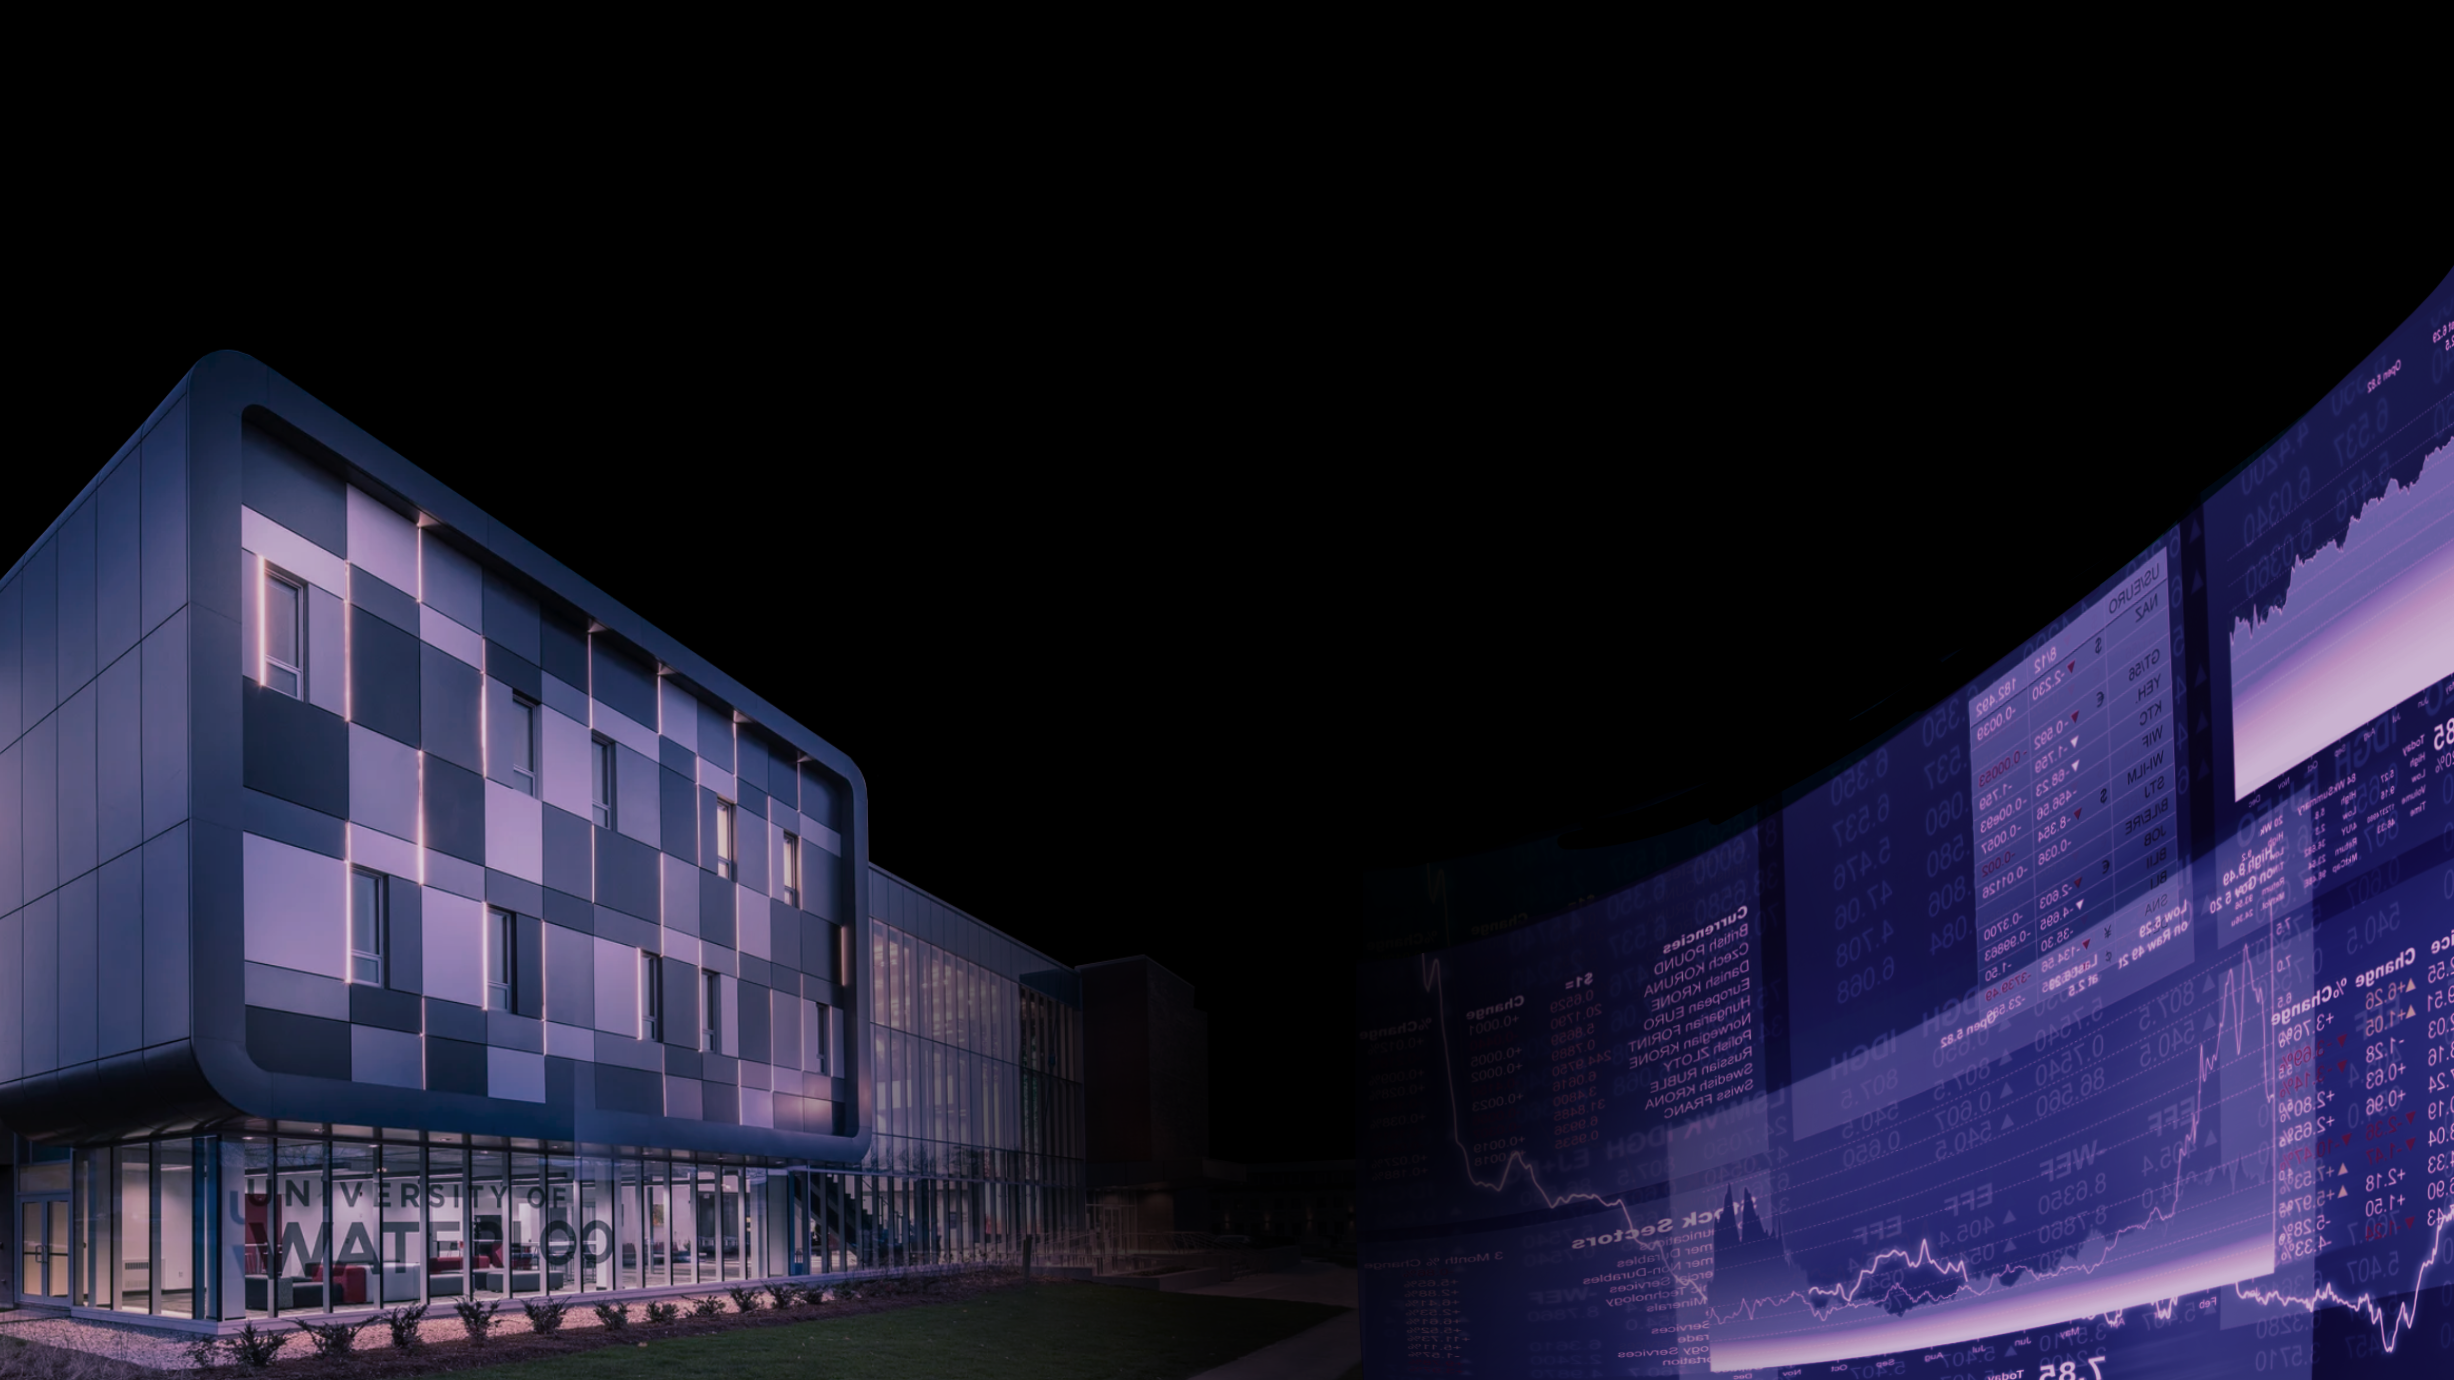
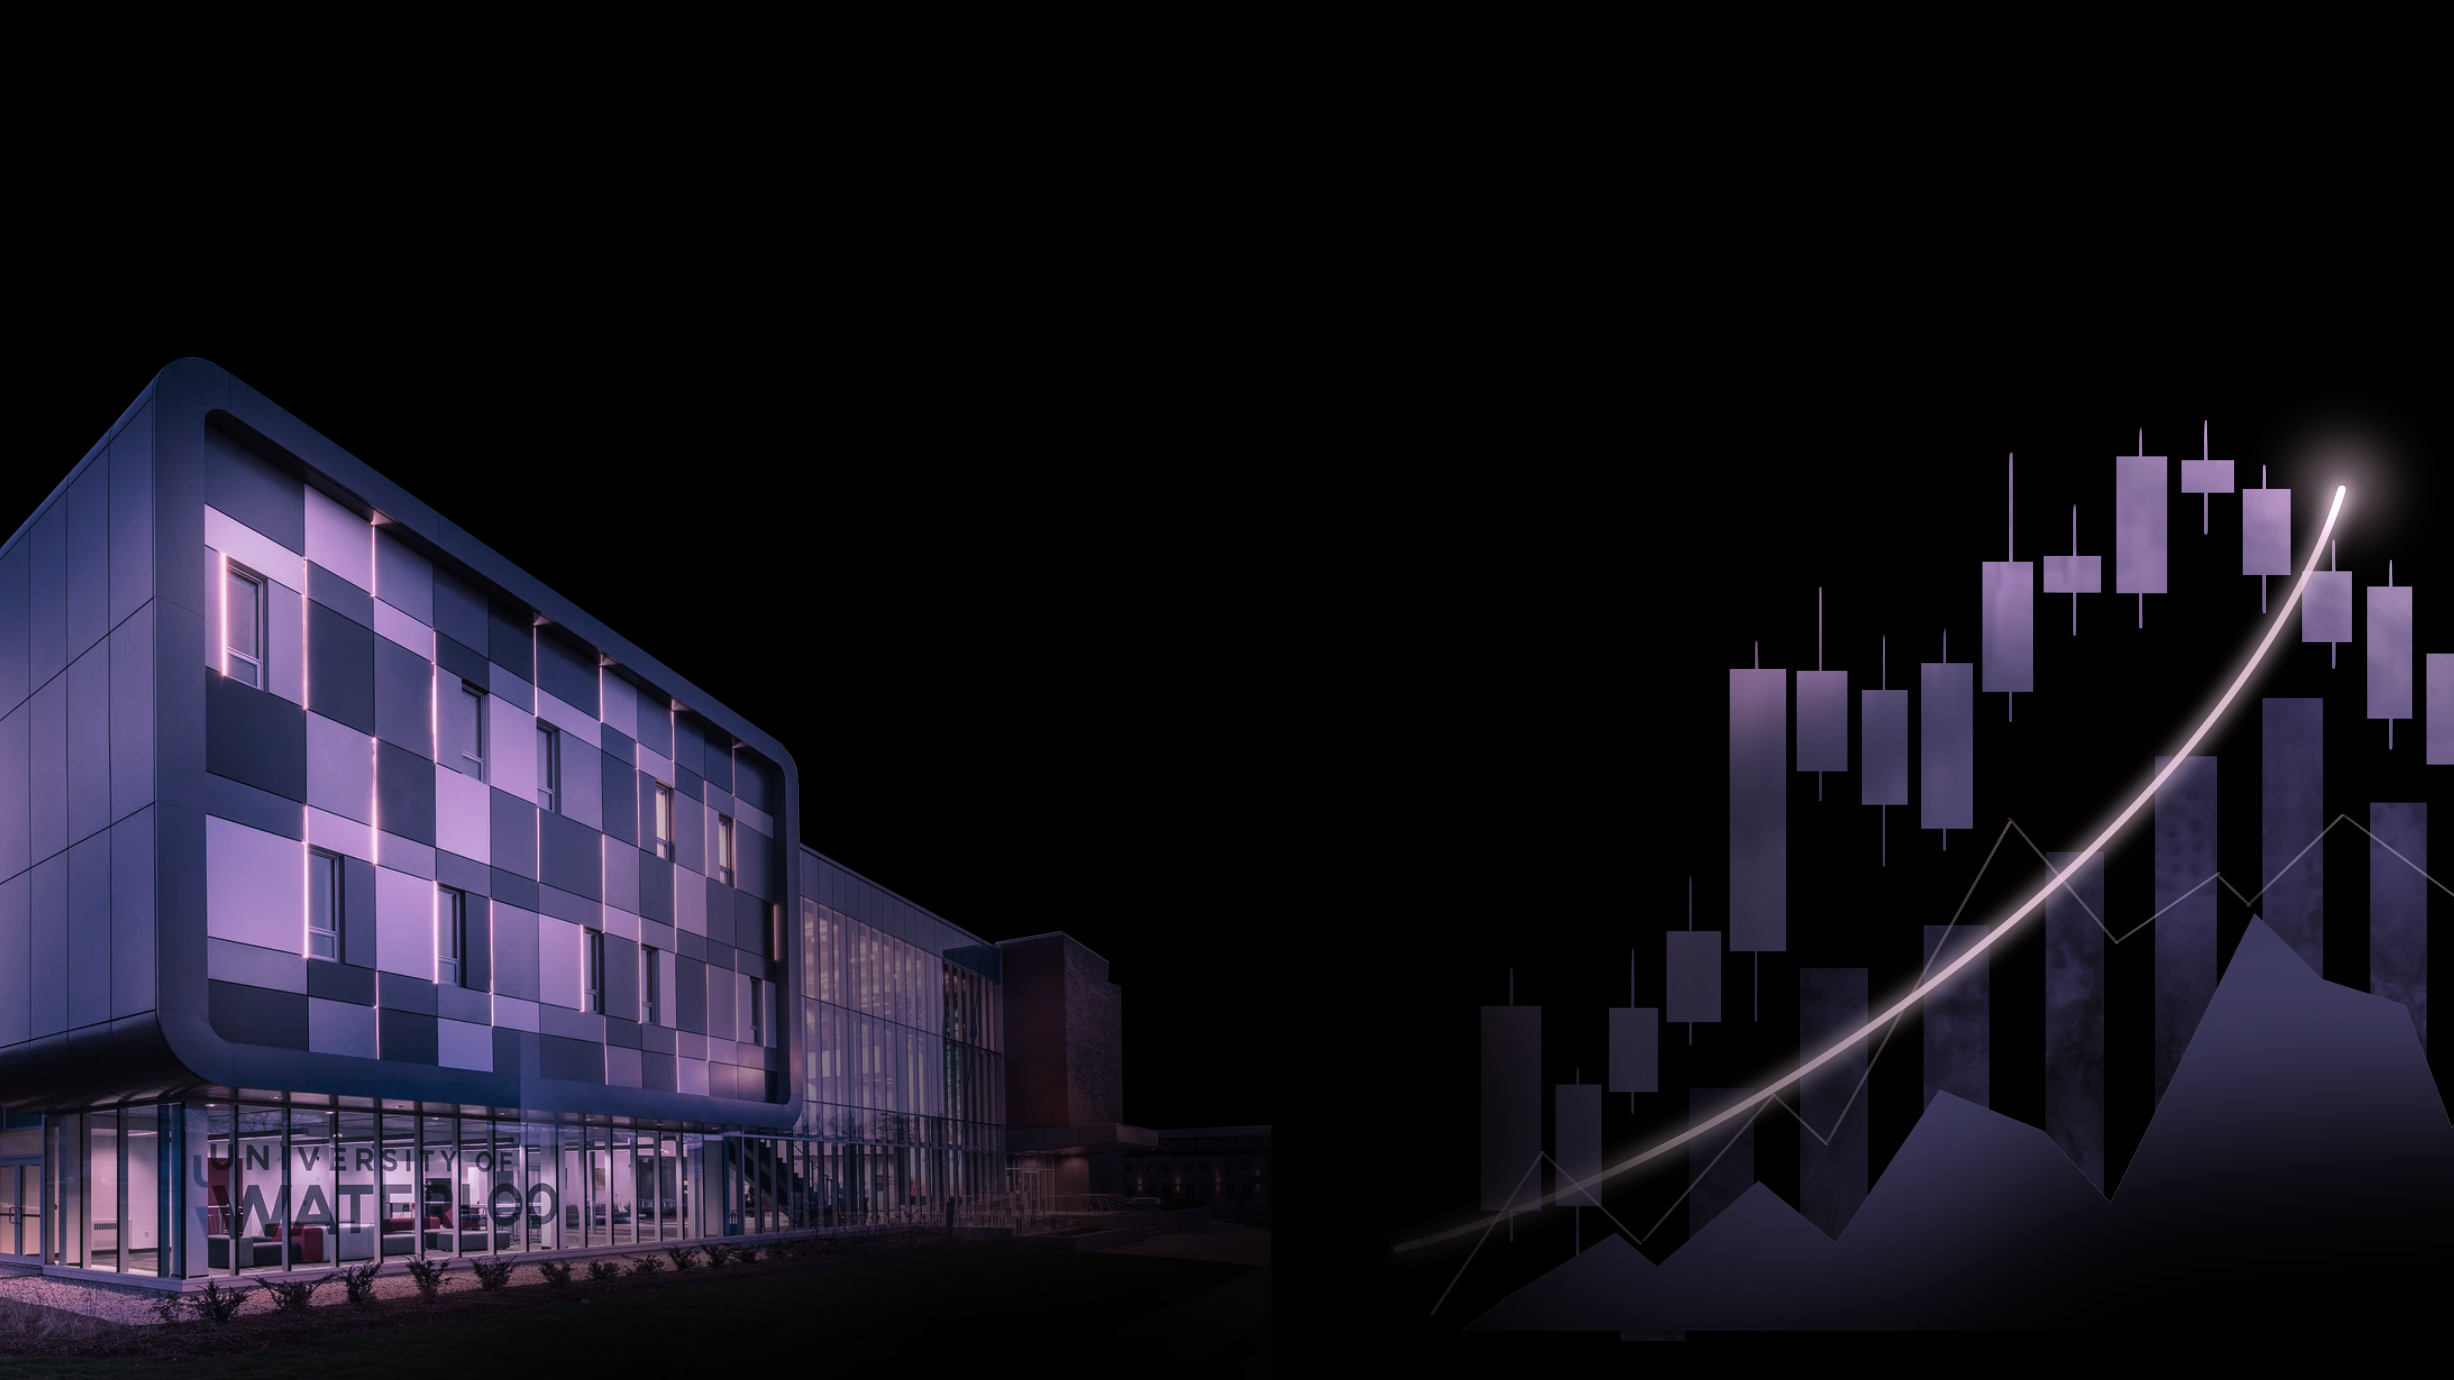
Added carousel

diff --git a/client/src/components/logo-carousel.tsx b/client/src/components/logo-carousel.tsx
@@ -1,0 +1,63 @@
+function LogoCarousel() {
+  return (
+    <div
+      className="mt-3 sm:mt-8 z-[999] inline-flex flex-nowrap w-full overflow-hidden
+  [-webkit-mask-image:linear-gradient(to_right,transparent_0,black_60px,black_calc(100%-60px),transparent_100%)]
+  [mask-image:linear-gradient(to_right,transparent_0,black_60px,black_calc(100%-60px),transparent_100%)]"
+    >
+      <ul className="companyList flex items-center justify-start [&_li]:mx-6 [&_img]:max-w-none">
+        <li>
+          <img
+            src={"/JS.png"}
+            className="aspect[14/5] h-10"
+            alt="Jane Street"
+          />
+        </li>
+        <li>
+          <img src={"/SIG.png"} className="aspect[14/5] h-10" alt="SIG" />
+        </li>
+        <li>
+          <img src={"/CIT.png"} className="aspect[14/5] h-10" alt="Citadel" />
+        </li>
+        <li>
+          <img src={"/HRT.png"} className="aspect[14/5] h-10" alt="HRT" />
+        </li>
+        <li>
+          <img src={"/IMC.png"} className="aspect[14/5] h-10" alt="IMC" />
+        </li>
+        <li>
+          <img src={"/JUMP.png"} className="aspect[14/5] h-10" alt="Jump" />
+        </li>
+      </ul>
+      <ul
+        className="companyList flex items-center justify-start [&_li]:mx-6 [&_img]:max-w-none"
+        aria-hidden="true"
+      >
+        <li>
+          <img
+            src={"/JS.png"}
+            className="aspect[14/5] h-10"
+            alt="Jane Street"
+          />
+        </li>
+        <li>
+          <img src={"/SIG.png"} className="aspect[14/5] h-10" alt="SIG" />
+        </li>
+        <li>
+          <img src={"/CIT.png"} className="aspect[14/5] h-10" alt="Citadel" />
+        </li>
+        <li>
+          <img src={"/HRT.png"} className="aspect[14/5] h-10" alt="HRT" />
+        </li>
+        <li>
+          <img src={"/IMC.png"} className="aspect[14/5] h-10" alt="IMC" />
+        </li>
+        <li>
+          <img src={"/JUMP.png"} className="aspect[14/5] h-10" alt="Jump" />
+        </li>
+      </ul>
+    </div>
+  );
+}
+
+export default LogoCarousel;

diff --git a/client/src/pages/Hero.tsx b/client/src/pages/Hero.tsx
@@ -1,11 +1,24 @@
-import { useState } from "react";
+import { useState, useEffect } from "react";
 import { PixelatedCanvas } from "../components/pixel-canvas";
+import LogoCarousel from "../components/logo-carousel";
 
 function Hero() {
   const [size, setSize] = useState({
     w: window.innerWidth,
     h: window.innerHeight,
   });
+
+  useEffect(() => {
+    function handleResize() {
+      setSize({
+        w: window.innerWidth,
+        h: window.innerHeight,
+      });
+    }
+
+    window.addEventListener("resize", handleResize);
+    return () => window.removeEventListener("resize", handleResize);
+  }, []);
 
   return (
     <>
@@ -27,8 +40,12 @@ function Hero() {
           jitterStrength={4}
           jitterSpeed={1}
           sampleAverage
-          tintStrength={0}
+          tintColor="#000000"
+          tintStrength={0.15}
         />
+        <div className="absolute bottom-[30px] w-[80vw]">
+          <LogoCarousel />
+        </div>
       </div>
     </>
   );

diff --git a/client/src/index.css b/client/src/index.css
@@ -4,3 +4,17 @@ html, body, #root {
   background-color: #000000; 
   color: white; 
 }
+
+.companyList {
+    animation: infinity 20s linear infinite;
+    filter: brightness(95%);
+}
+
+@keyframes infinity {
+    from {
+        transform: translateX(0);
+    }
+    to {
+        transform: translateX(-100%);
+    }
+}
